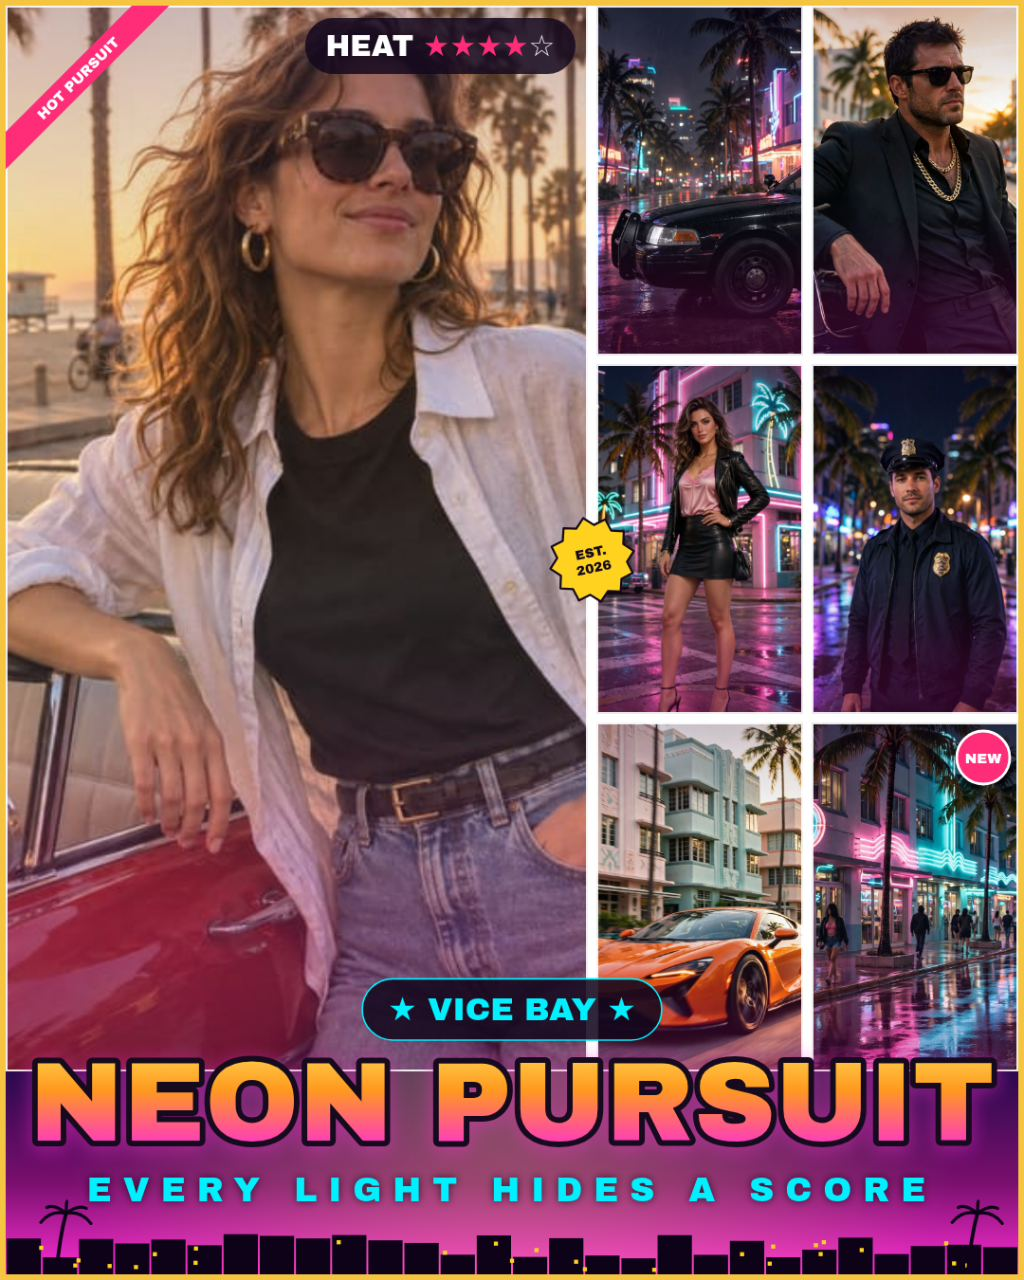
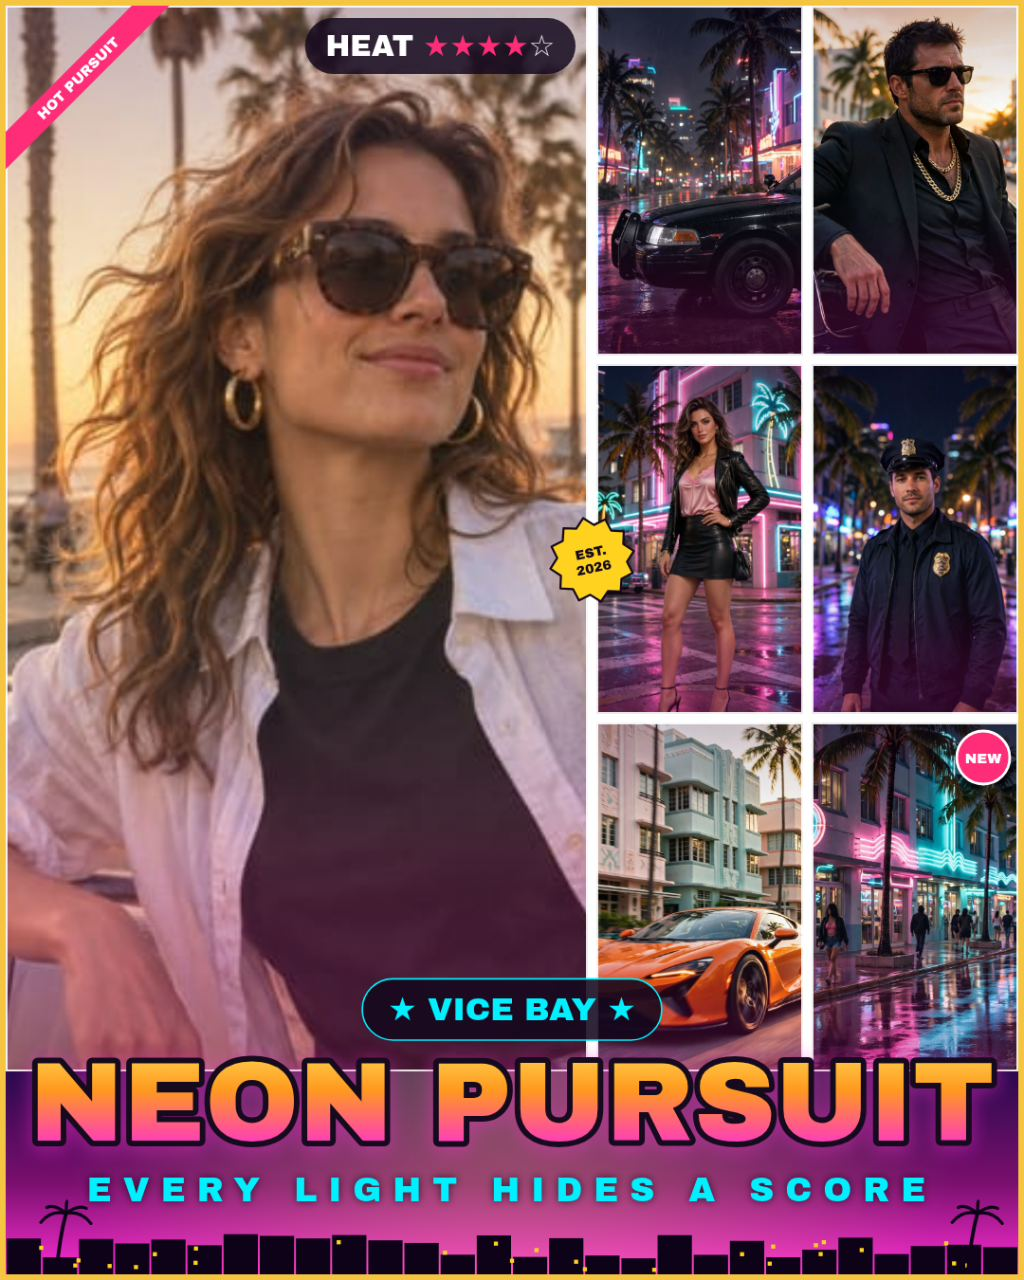
Vice Cover: tighter hero crop + unified warm sunset grade
- Hero default crop zoom 1.15->1.5, oy 0->0.9: woman's face/upper body
  now dominates the hero panel in all sizes, face fully visible.
- Vice Sunset grade: sepia(0.20) saturate(1.15) filter + uniform warm
  tint rgba(255,122,45,0.10) across every panel + slightly stronger
  bottom wash, so day and night photos share one sunset mood; neon
  and subjects stay readable. Neon Nights and Vice Noir untouched.
- Layout, photos, titles, badges, panel count unchanged.

diff --git a/app/src/cover.js b/app/src/cover.js
@@ -9,7 +9,8 @@
 export const GRADES = {
   sunset: {
     label: 'Vice Sunset',
-    filter: '',
+    // Mild warm cast so bright-day and dark-night photos share one sunset mood.
+    filter: 'sepia(0.20) saturate(1.15)',
     accent: '#ffd21f',
     glow: 'rgba(255,45,120,0.55)',
     titleStops: [[0, '#ffe14d'], [0.55, '#ff7a1a'], [1, '#ff2d78']],
@@ -112,6 +113,13 @@ function drawPhotoPanel(ctx, r, panel, grade) {
     ctx.fillStyle = '#241534';
     ctx.fillRect(r.x, r.y, r.w, r.h);
   }
+  // Uniform warm tint (sunset grade only): one warm cast across the whole panel so
+  // bright-day and dark-night photos share a single sunset mood. The neon and the
+  // subjects stay readable — the tint is light and the bottom wash does the rest.
+  if (grade === GRADES.sunset) {
+    ctx.fillStyle = 'rgba(255,122,45,0.10)';
+    ctx.fillRect(r.x, r.y, r.w, r.h);
+  }
   // Warm sunset wash rising from the bottom of every panel.
   const wash = ctx.createLinearGradient(0, r.y + r.h * 0.45, 0, r.y + r.h);
   if (grade === GRADES.noir) {
@@ -123,7 +131,7 @@ function drawPhotoPanel(ctx, r, panel, grade) {
     wash.addColorStop(1, 'rgba(120,10,90,0.34)');
   } else {
     wash.addColorStop(0, 'rgba(255,120,40,0)');
-    wash.addColorStop(0.6, 'rgba(255,90,40,0.12)');
+    wash.addColorStop(0.6, 'rgba(255,90,40,0.15)');
     wash.addColorStop(1, 'rgba(200,30,120,0.34)');
   }
   ctx.fillStyle = wash;

diff --git a/app/src/main.js b/app/src/main.js
@@ -21,7 +21,7 @@ const PANEL_KEYS = ['hero', 'v1', 'v2', 'v3', 'v4', 'v5', 'v6'];
 // row 1 = police car under neon + gangster at sunset, row 2 = glamorous woman on a neon
 // street + police officer at night, row 3 = orange sports car + neon street.
 const DEFAULT_CROPS = [
-  { sample: 'boulevard', zoom: 1.15, ox: 0, oy: 0 },
+  { sample: 'boulevard', zoom: 1.5, ox: 0, oy: 0.9 },
   { sample: 'policecar', zoom: 1.15, ox: 0, oy: 0 },
   { sample: 'gangster', zoom: 1.15, ox: 0, oy: 0 },
   { sample: 'jablay', zoom: 1.15, ox: 0, oy: 0 },
